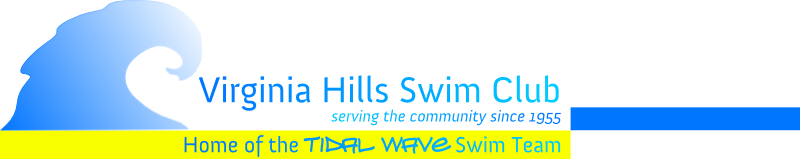
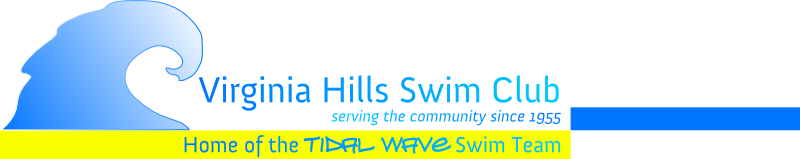
Small tweaks to images and layout

diff --git a/css/vahillspool.css b/css/vahillspool.css
@@ -44,21 +44,27 @@ body {
 h1 {
   /* 18px via YUI Fonts CSS foundation. */
   font-size: 138.5%;
-  background-image:url(../images/smallwaveblue.gif);
+  background-image:url(../images/smallwaveblue2.gif);
   background-repeat:no-repeat;
-  height:37px;
-  padding-left:50px;
-  padding-top:17px;
+  height:2.3077em; /* non-IE 30px */
+  *height:2.2501em; /* IE 30px */
+  padding-left:3em; /* non-IE 50px */
+  *padding-left:2.925em; /* IE 50px */
+  padding-top:0.6em; /* non-IE 11px */
+  *padding-top:0.585em; /* IE 11px */
 }
 
 h2 {
   /* 16px via YUI Fonts CSS foundation. */
   font-size: 123.1%;
-  background-image:url(../images/smallwaveblue.gif);
+  background-image:url(../images/smallwaveblue2.gif);
   background-repeat:no-repeat;
-  height:37px;
-  padding-left:50px;
-  padding-top:17px;
+  height:2.3077em; /* non-IE 30px */
+  *height:2.2501em; /* IE 30px */
+  padding-left:3em; /* non-IE 50px */
+  *padding-left:2.925em; /* IE 50px */
+  padding-top:0.6em; /* non-IE 11px */
+  *padding-top:0.585em; /* IE 11px */
 }
 
 h3 {
